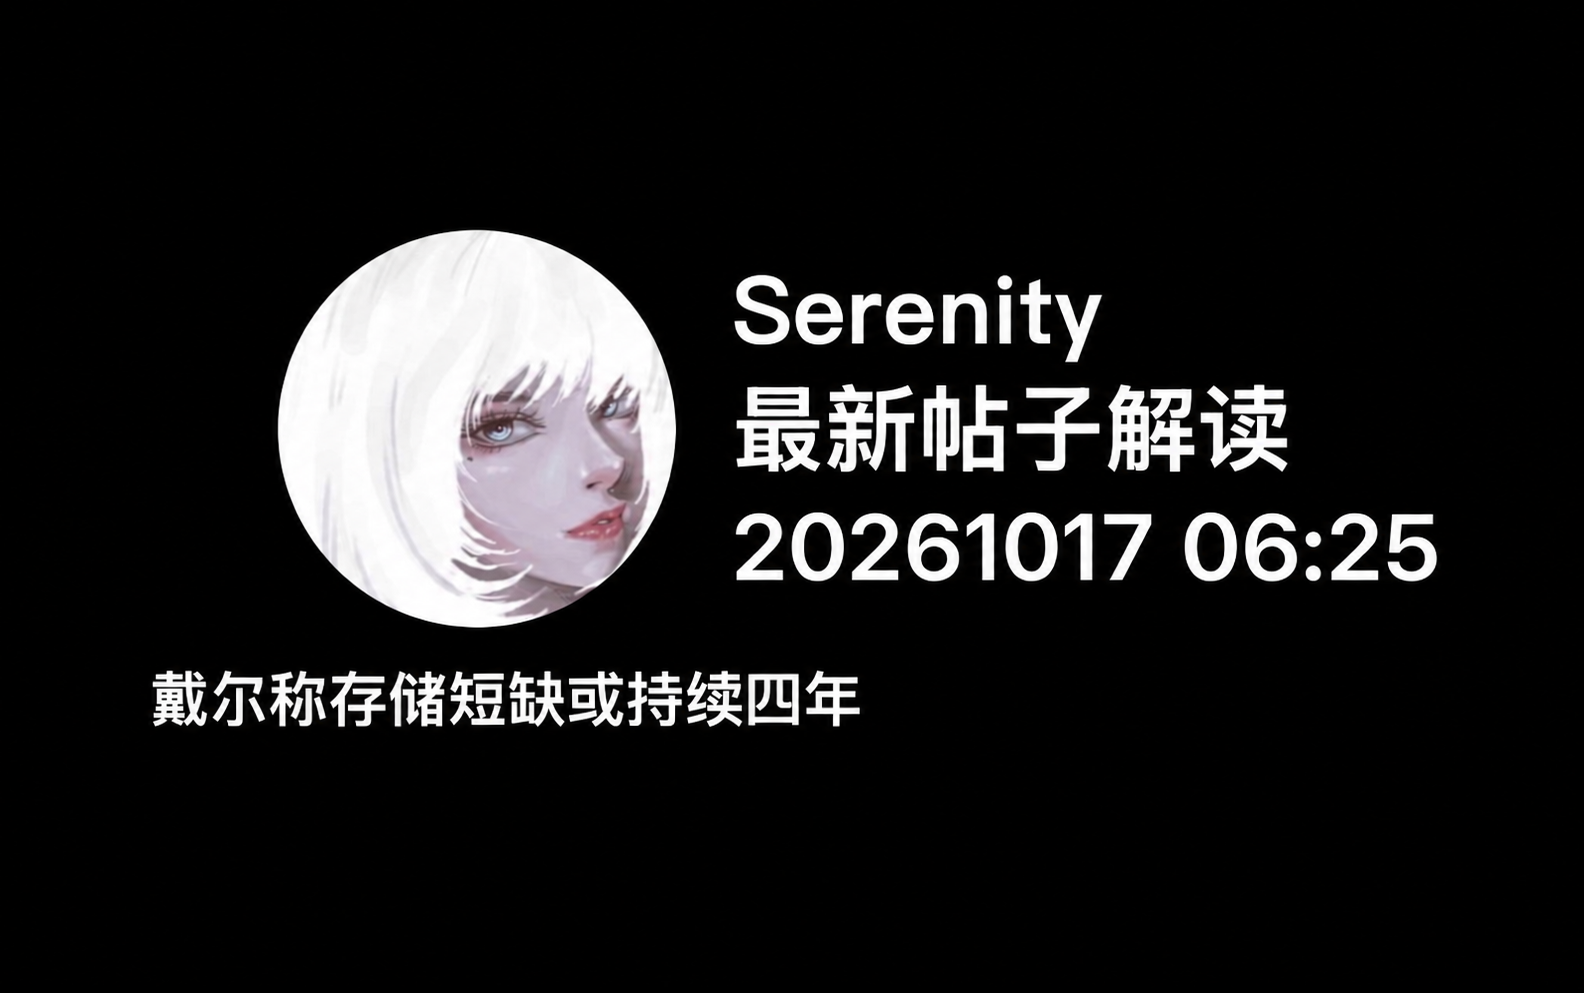
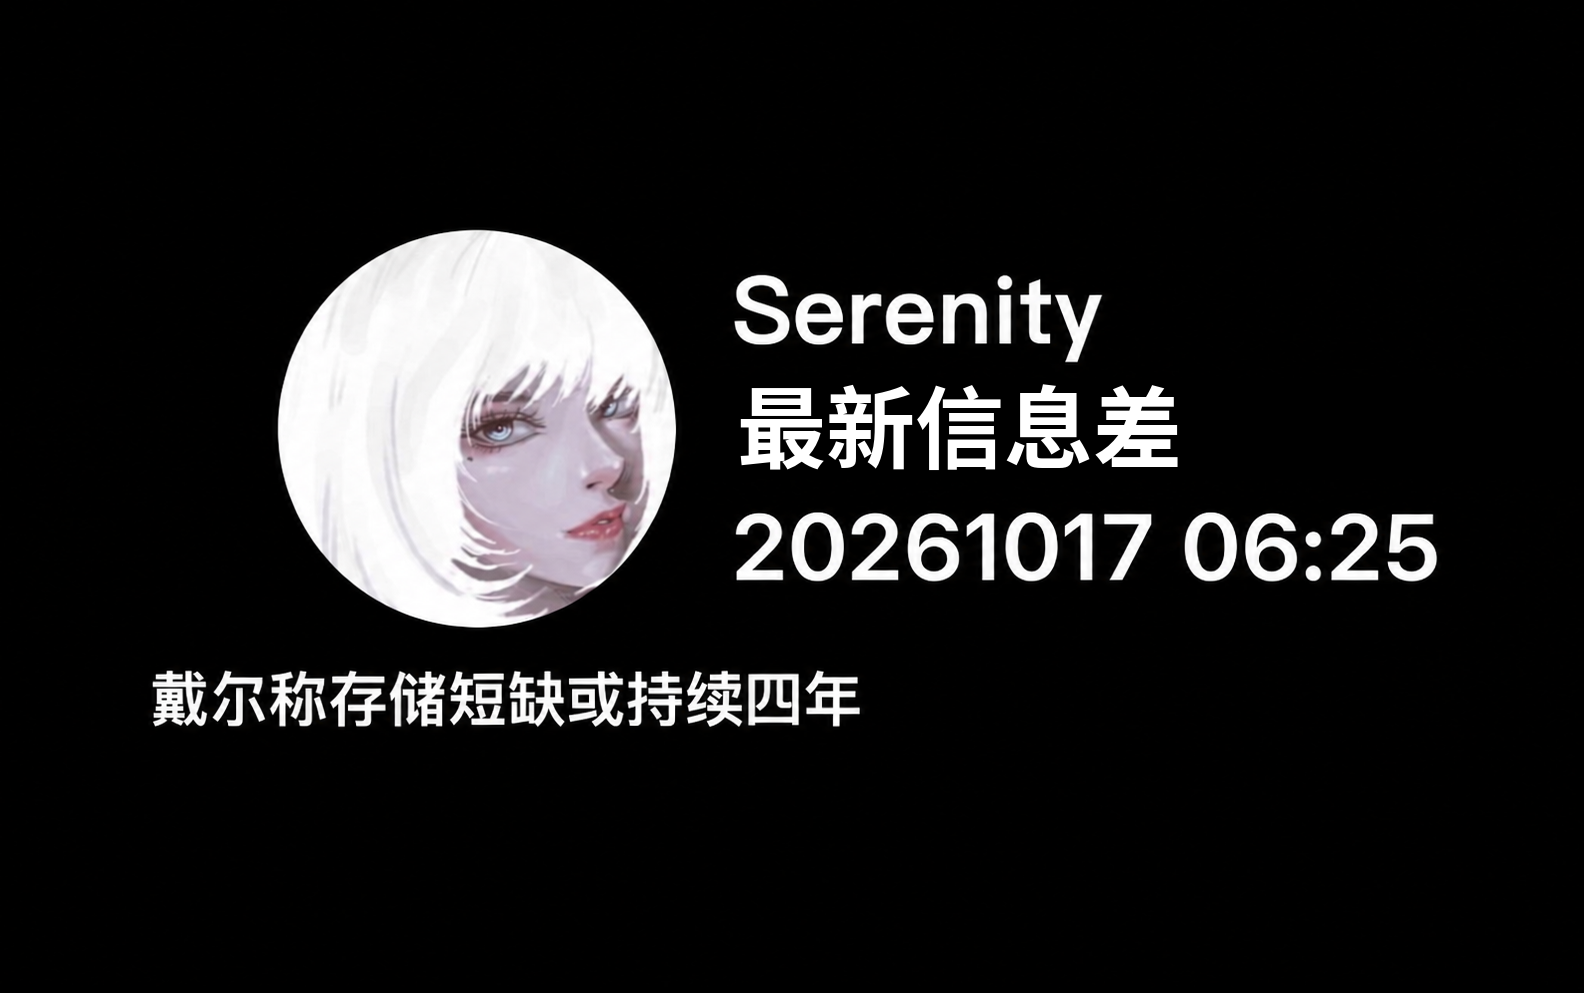
Serenity 封面：第二行改“最新信息差”，标题 Bold ×1.3，新增马斯克模板
Claude-Session: https://claude.ai/code/session_011hyzzRu14zo7Fk7T7mufpy

Changed region(s): [[0.464, 0.3746, 0.8352, 0.4995]]

diff --git a/serenity/tools/make_cover.py b/serenity/tools/make_cover.py
@@ -1,18 +1,23 @@
 """Serenity 封面：python3 make_cover.py "20261017 06:25" "封面标题" out.png
-以用户提供的封面（cover_tpl.png，1584x993）为底：保留头像、Serenity、最新帖子解读，
+以用户提供的封面（cover_tpl.png，1584x993）为底：保留头像、名字、第二行“最新信息差”，
 只替换日期行和封面标题行，最后缩放并裁成 1273x716。"""
 import sys
 from PIL import Image, ImageDraw, ImageFont
 
-TPL = "cover_tpl.png"
+import os
+HERE = os.path.dirname(os.path.abspath(__file__))
+TPL = os.path.join(HERE, "cover_tpl.png")   # 改 make_cover.TPL 可换 cover_tpl_vincent.png / cover_tpl_musk.png
 INTER = "/usr/share/fonts/opentype/inter/Inter-Medium.otf"
-CJK = "/usr/share/fonts/opentype/noto/NotoSansCJK-Medium.ttc"
+CJK = "/usr/share/fonts/opentype/noto/NotoSansCJK-Bold.ttc"   # 标题用 Bold
 W, H = 1273, 716
 
 # 模板中实测位置（1584x993 坐标）
 DATE_X, DATE_TOP, DATE_H = 736, 512, 68          # 数字字高
-TITLE_CX, TITLE_TOP, TITLE_REF_W = 476.5, 671, 706  # 标题以头像圆心 x 居中  # “戴尔称存储短缺或持续四年”宽度
+TITLE_CX, TITLE_TOP, TITLE_REF_W = 476.5, 671, 706 * 1.3  # 标题以头像圆心 x 居中  # “戴尔称存储短缺或持续四年”宽度
 TITLE_REF = "戴尔称存储短缺或持续四年"
+BOTTOM_ROW = 726  # 内容最下沿（模板坐标），用于垂直居中
+TITLE_SCALE = 1.3  # 标题大小 = 原版 × 1.3（2026-11-12 定），仍以头像圆心居中
+TITLE_MAX_H = None  # 设为数字则启用“大标题”模式（标题字高上限，模板像素）
 
 
 def fit_font(path, idx, text, target, measure="h"):
@@ -40,26 +45,40 @@ def make(stamp, title, out):
     f_date = fit_font(INTER, 0, "20261017 06:25", DATE_H, "h")
     draw_top_left(dr, DATE_X, DATE_TOP, stamp, f_date)
 
-    # 标题字号按参考标题宽度标定，保持与原图一致的字大小
-    f_title = fit_font(CJK, 2, TITLE_REF, TITLE_REF_W, "w")
-    rb = f_title.getbbox(TITLE_REF)
-    b = f_title.getbbox(title)
-    # 标题过长时缩小字号，保证以圆心居中后左右都不出画面（左右至少留 60px）
-    max_w = TITLE_REF_W  # 最宽不超过参考标题，超出就缩小字号
-    if b[2] - b[0] > max_w:
-        f_title = fit_font(CJK, 2, title, max_w, "w")
+    # 标题：先按目标宽度放大，再用最大字高封顶（TITLE_MAX_H=None 时沿用旧逻辑）
+    if TITLE_MAX_H:
+        f_title = fit_font(CJK, 2, title, TITLE_REF_W, "w")
         b = f_title.getbbox(title)
-        print("WARN 标题过长，已缩小字号:", title)
-    tx = TITLE_CX - (b[2] - b[0]) / 2 - b[0]
-    dr.text((tx, TITLE_TOP - rb[1]), title, font=f_title, fill="white")
+        if b[3] - b[1] > TITLE_MAX_H:
+            f_title = fit_font(CJK, 2, title, TITLE_MAX_H, "h")
+            b = f_title.getbbox(title)
+        tw, th = b[2] - b[0], b[3] - b[1]
+        tx = TITLE_CX - tw / 2 - b[0]
+        dr.text((tx, TITLE_TOP - b[1]), title, font=f_title, fill="white")
+        L_over, bottom_row = TITLE_CX - max(tw, 706) / 2, TITLE_TOP + th
+    else:
+        f_title = fit_font(CJK, 2, TITLE_REF, TITLE_REF_W, "w")
+        rb = f_title.getbbox(TITLE_REF)
+        b = f_title.getbbox(title)
+        max_w = TITLE_REF_W
+        if b[2] - b[0] > max_w:
+            f_title = fit_font(CJK, 2, title, max_w, "w")
+            b = f_title.getbbox(title)
+            print("WARN 标题过长，已缩小字号:", title)
+        tx = TITLE_CX - (b[2] - b[0]) / 2 - b[0]
+        dr.text((tx, TITLE_TOP - rb[1]), title, font=f_title, fill="white")
+        L_over, bottom_row = None, BOTTOM_ROW
+        if TITLE_SCALE != 1.0:  # 标题放大 k 倍；整体缩放只随标题实际宽度变化（≤706 时与原版完全一致）
+            L_over = TITLE_CX - max(b[2] - b[0], 706) / 2
+            bottom_row = TITLE_TOP + (rb[3] - rb[1])
 
     # B站封面安全区：部分场景按 4:3 显示，只保留中间 955px 宽（x 159–1114）。
     # 把整块内容（标题最左 123.5 → 日期最右 1436，模板坐标）等比缩小放进安全区，左右各留 20px。
     SAFE_L, SAFE_R = (W - H * 4 / 3) / 2 + 20, (W + H * 4 / 3) / 2 - 20
-    L, R = TITLE_CX - TITLE_REF_W / 2, 1436
+    L, R = (L_over if L_over is not None else TITLE_CX - TITLE_REF_W / 2), 1436
     f = (SAFE_R - SAFE_L) / (R - L)
     ox = SAFE_L - f * L
-    oy = H / 2 - f * (230 + 726) / 2
+    oy = H / 2 - f * (230 + bottom_row) / 2
     small = img.resize((round(img.width * f), round(img.height * f)), Image.LANCZOS)
     canvas = Image.new("RGB", (W, H), "black")
     canvas.paste(small, (round(ox), round(oy)))
@@ -74,3 +93,39 @@ def make(stamp, title, out):
 
 if __name__ == "__main__":
     make(*sys.argv[1:4])
+
+
+def make_pc(stamp, title, out, max_w=900, max_h_tpl=104):
+    """标题相对整个页面居中（x=W/2）；头像+三行字整体居中放进 4:3 安全区。"""
+    import numpy as np
+    img = Image.open(TPL).convert("RGB")
+    dr = ImageDraw.Draw(img)
+    dr.rectangle((700, 495, 1584, 600), fill="black")
+    dr.rectangle((100, 650, 1584, 760), fill="black")      # 擦掉原标题
+    f_date = fit_font(INTER, 0, "20261017 06:25", DATE_H, "h")
+    draw_top_left(dr, DATE_X, DATE_TOP, stamp, f_date)
+    SAFE_L, SAFE_R = (W - H * 4 / 3) / 2 + 20, (W + H * 4 / 3) / 2 - 20
+    L, R = 277, 1436                                        # 头像左缘 → 日期右缘
+    f = (SAFE_R - SAFE_L) / (R - L)
+    ox = SAFE_L - f * L
+    bottom = 671 + max_h_tpl
+    oy = H / 2 - f * (230 + bottom) / 2
+    small = img.resize((round(img.width * f), round(img.height * f)), Image.LANCZOS)
+    canvas = Image.new("RGB", (W, H), "black")
+    canvas.paste(small, (round(ox), round(oy)))
+    # 标题直接画在画布上：先按宽度，再按字高封顶
+    dr2 = ImageDraw.Draw(canvas)
+    ft = fit_font(CJK, 2, title, max_w, "w")
+    b = ft.getbbox(title)
+    if b[3] - b[1] > max_h_tpl * f:
+        ft = fit_font(CJK, 2, title, max_h_tpl * f, "h"); b = ft.getbbox(title)
+    tw = b[2] - b[0]
+    tx = W / 2 - tw / 2 - b[0]
+    ty = oy + f * 671 - b[1]
+    dr2.text((tx, ty), title, font=ft, fill="white")
+    a = np.array(canvas.convert("L")) > 40
+    xs = np.where(a.any(0))[0]; ys = np.where(a.any(1))[0]
+    if xs[0] < SAFE_L - 20 or xs[-1] > SAFE_R + 20:
+        print(f"WARN 超出安全区: x={xs[0]}–{xs[-1]}", title)
+    print("f=%.3f x=%d–%d y=%d–%d" % (f, xs[0], xs[-1], ys[0], ys[-1]))
+    canvas.save(out)

diff --git a/serenity/tools/README.md b/serenity/tools/README.md
@@ -1,7 +1,7 @@
 # tools：封面与拼图脚本（Serenity / vincent 通用）
 
-- `make_cover.py`：封面。底图 `cover_tpl.png`（Serenity）或 `cover_tpl_vincent.png`（vincent），只替换日期行和封面标题，内容缩进 B 站 4:3 安全区并自检。
-  用法：`python3 make_cover.py "20261103 18:31" "封面标题" out.png`（要用 vincent 模板时在代码里改 `make_cover.TPL`）。
+- `make_cover.py`：封面。底图 `cover_tpl.png`（Serenity）、`cover_tpl_vincent.png`（vincent）或 `cover_tpl_musk.png`（马斯克），第二行是“最新信息差”，只替换日期行和封面标题；标题用 Noto Sans CJK Bold，大小为原版 ×1.3（`TITLE_SCALE`），仍以头像圆心居中，内容缩进 B 站 4:3 安全区并自检。
+  用法：`python3 make_cover.py "20261103 18:31" "封面标题" out.png`（换人时在代码里改 `make_cover.TPL`）。
   依赖字体：Inter-Medium.otf、NotoSansCJK-Medium.ttc（路径见脚本顶部）。
 - `collage_example_20261103.py`：拼图最新版实例。每篇写 (名称, 封面时间, 封面标题, 缩放S, 组列表)；
   坐标是手机“显示坐标”（宽 920），脚本乘 截图宽/920。支持 "seam" 无缝对齐两张重叠截图。

diff --git a/serenity/CLAUDE.md b/serenity/CLAUDE.md
@@ -26,7 +26,7 @@
 
 ## 封面图
 
-参考用户惯用模板 `references/封面模板_1273x716.png`：纯黑底、左侧 Serenity 白发圆形头像，右侧三行依次为 `Serenity`、`最新帖子解读`、`YYYYMMDD HH:MM`，下方一行简短中文封面标题。整体留白和字重参照原图。尺寸必须为 **1273×716**。封面内容按当前帖子替换，发布时间仍用原帖时间。检查中文字、日期和冒号准确，不能出现乱码或生成错字。
+参考用户惯用模板 `references/封面模板_1273x716.png`：纯黑底、左侧 Serenity 白发圆形头像，右侧三行依次为 `Serenity`、`最新信息差`（2026-11-12 起由“最新帖子解读”改名）、`YYYYMMDD HH:MM`，下方一行简短中文封面标题；标题用 Bold 字重、大小为原版 ×1.3，以头像圆心居中。其他博主换头像和名字（vincent、马斯克模板在 `tools/`）。整体留白和字重参照原图。尺寸必须为 **1273×716**。封面内容按当前帖子替换，发布时间仍用原帖时间。检查中文字、日期和冒号准确，不能出现乱码或生成错字。
 
 ## 原帖拼图
 
